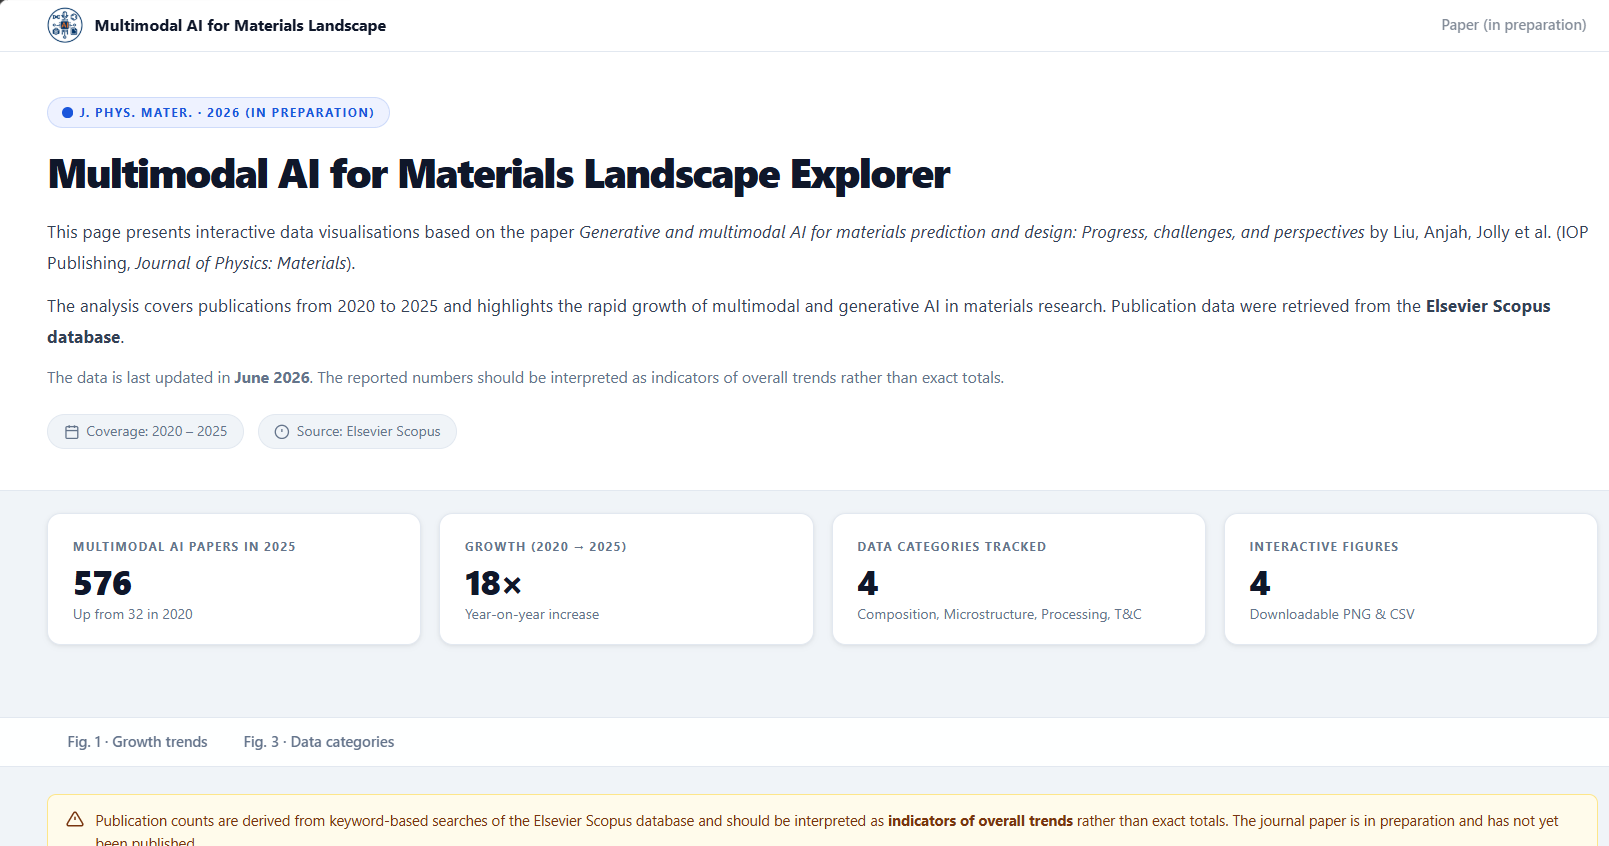
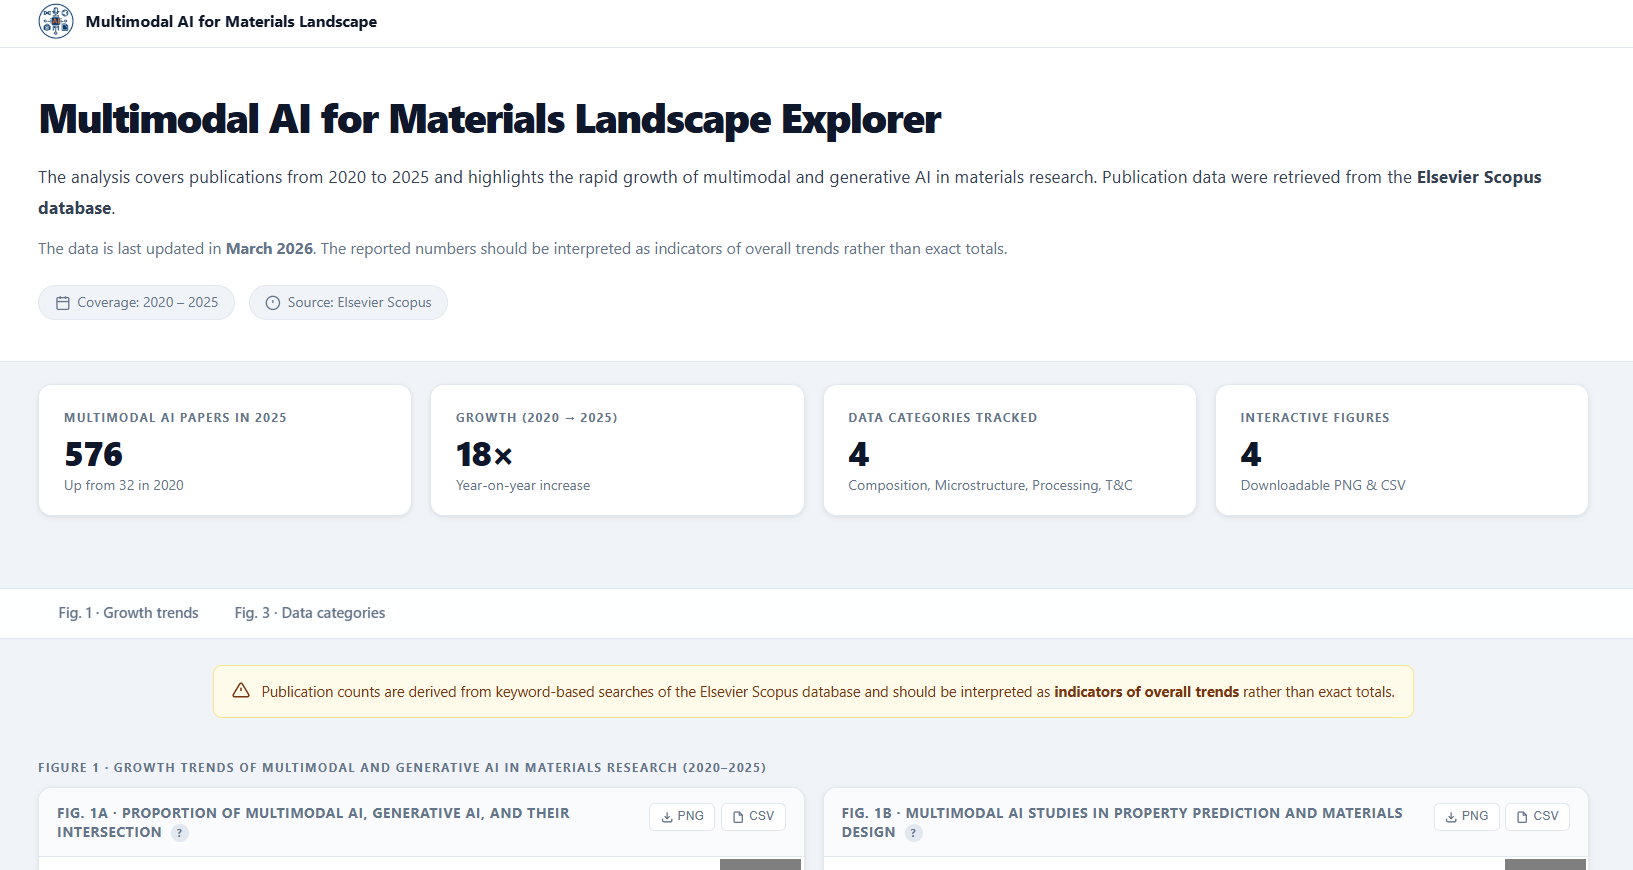
chore: hide unpublished paper references in site UI

diff --git a/index.html b/index.html
@@ -33,7 +33,9 @@
       Multimodal AI for Materials Landscape
     </a>
     <div class="topbar-links">
-      <span class="topbar-link" style="cursor:default;opacity:.6">Paper (in preparation)</span>
+      <!-- PAPER LINK — uncomment when published
+      <a href="#" target="_blank" rel="noopener" class="topbar-link">Paper&nbsp;↗</a>
+      -->
     </div>
   </div>
 </header>
@@ -43,18 +45,22 @@
   <div class="container-wide">
     <div class="hero-content" style="max-width:100%">
       <div class="hero-text">
+        <!-- JOURNAL EYEBROW — uncomment when published
         <div class="page-hero-eyebrow">
           <svg width="10" height="10" viewBox="0 0 10 10" fill="currentColor" aria-hidden="true">
             <circle cx="5" cy="5" r="5"/>
           </svg>
-          J. Phys. Mater. · 2026 (in preparation)
+          J. Phys. Mater. · 2026
         </div>
+        -->
         <h1 id="hero-title">Multimodal AI for Materials Landscape Explorer</h1>
+        <!-- PAPER REFERENCE — uncomment when published
         <p class="hero-body">
           This page presents interactive data visualisations based on the paper
           <em>Generative and multimodal AI for materials prediction and design: Progress, challenges, and perspectives</em>
           by Liu, Anjah, Jolly et al. (IOP Publishing, <em>Journal of Physics: Materials</em>).
         </p>
+        -->
         <p class="hero-body">
           The analysis covers publications from 2020 to 2025 and highlights the rapid growth of multimodal
           and generative AI in materials research. Publication data were retrieved from the
@@ -145,8 +151,7 @@
       <line x1="12" y1="17" x2="12.01" y2="17"/>
     </svg>
     <span>Publication counts are derived from keyword-based searches of the Elsevier Scopus database and should be
-    interpreted as <strong>indicators of overall trends</strong> rather than exact totals.
-    The journal paper is in preparation and has not yet been published.</span>
+    interpreted as <strong>indicators of overall trends</strong> rather than exact totals.</span>
   </div>
 </div>
 

diff --git a/assets/js/common.js b/assets/js/common.js
@@ -157,11 +157,10 @@ const FOOTER_HTML = `
                width="28" height="28" aria-hidden="true" onerror="this.style.display='none'">
           Multimodal AI for Material Science
         </a>
-        <p>Interactive data visualisations from the paper
-        <em>Generative and multimodal AI for materials prediction and design</em>
-        by Liu et al. (IOP Publishing, J. Phys. Mater., in preparation).
+        <p>Interactive data visualisations covering multimodal and generative AI trends in materials research.
         Coverage: Scopus 2020–2025. Last updated <span id="footer-last-updated">March 2026</span>.</p>
       </div>
+      <!-- BIBTEX BLOCK — uncomment when paper is published
       <div class="footer-cite-bibtex">
         <div class="bibtex-wrap">
           <div class="bibtex-header">
@@ -171,9 +170,9 @@ const FOOTER_HTML = `
                 <path d="M14 2H6a2 2 0 00-2 2v16a2 2 0 002 2h12a2 2 0 002-2V8z"/>
                 <polyline points="14 2 14 8 20 8"/>
               </svg>
-              BibTeX (provisional)
+              BibTeX
             </span>
-            <span class="bibtex-hint">To be updated upon publication</span>
+            <span class="bibtex-hint">Copy the entry below for use in LaTeX documents</span>
           </div>
           <div class="bibtex-block"><button class="bibtex-copy-btn" onclick="navigator.clipboard.writeText(this.nextElementSibling.textContent.trim()).then(()=>{this.textContent='Copied!';setTimeout(()=>this.textContent='Copy',1500)})" aria-label="Copy BibTeX to clipboard">Copy</button><code>@article{liu2026generative,
   title   = {Generative and multimodal AI for materials prediction and design:
@@ -184,10 +183,11 @@ const FOOTER_HTML = `
              and Lu, Haiping},
   journal = {Journal of Physics: Materials},
   year    = {2026},
-  note    = {In preparation}
+  doi     = {10.xxxx/xxxxxx}
 }</code></div>
         </div>
       </div>
+      -->
     </div>
     <div class="footer-bottom">
       <span class="footer-bottom-text">